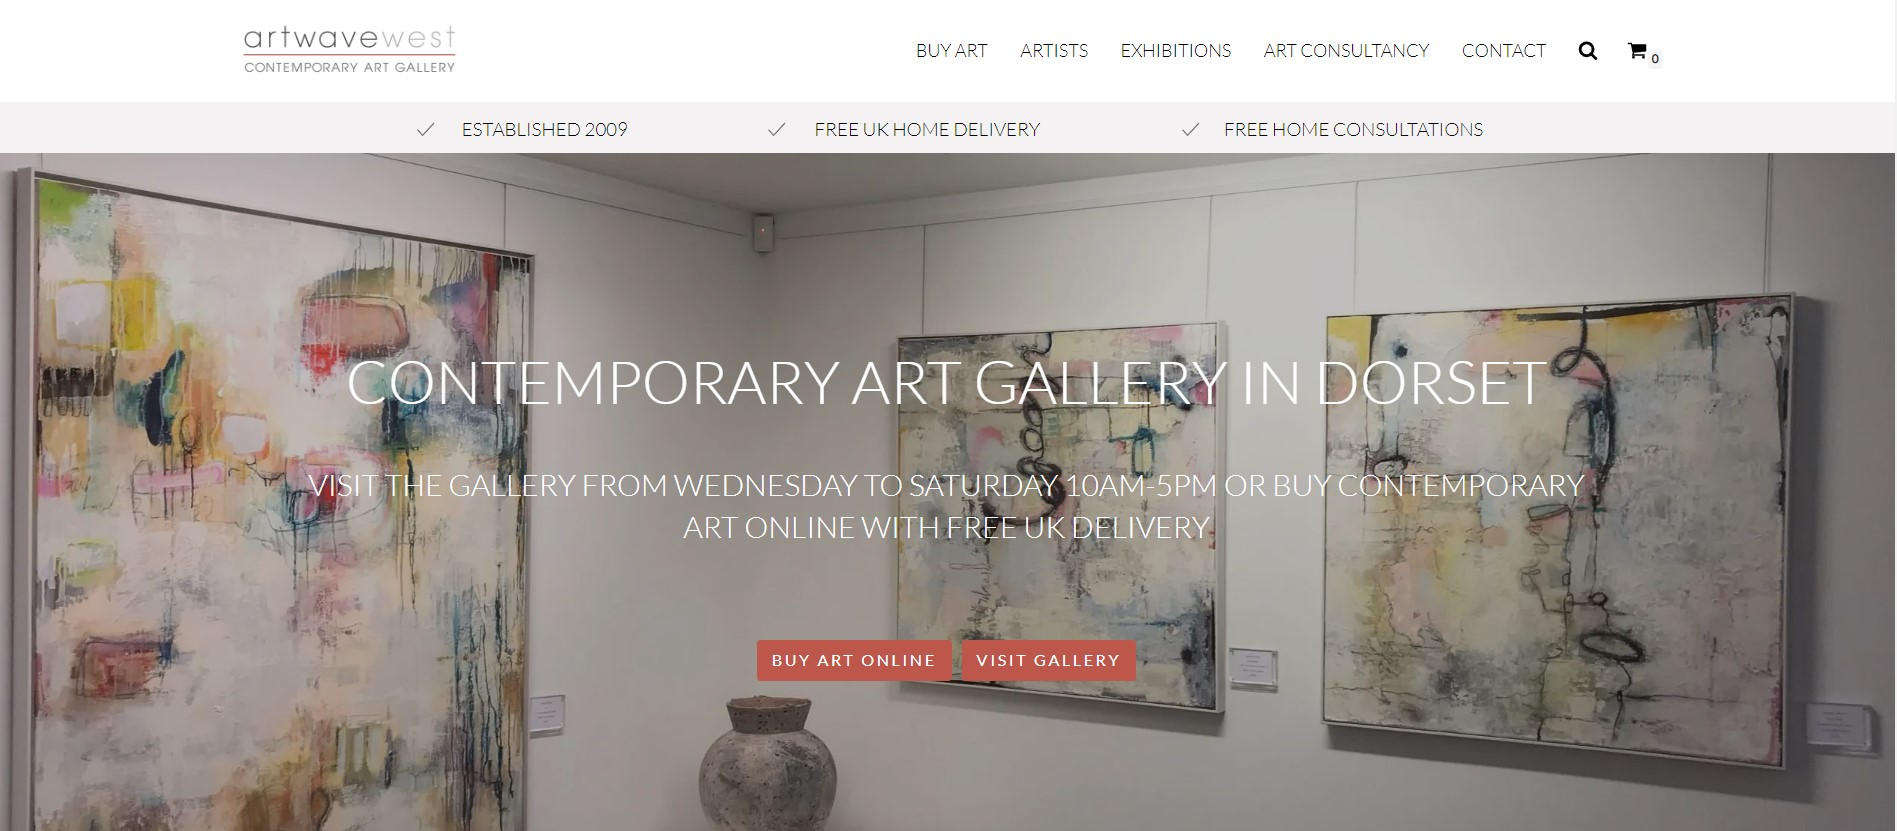
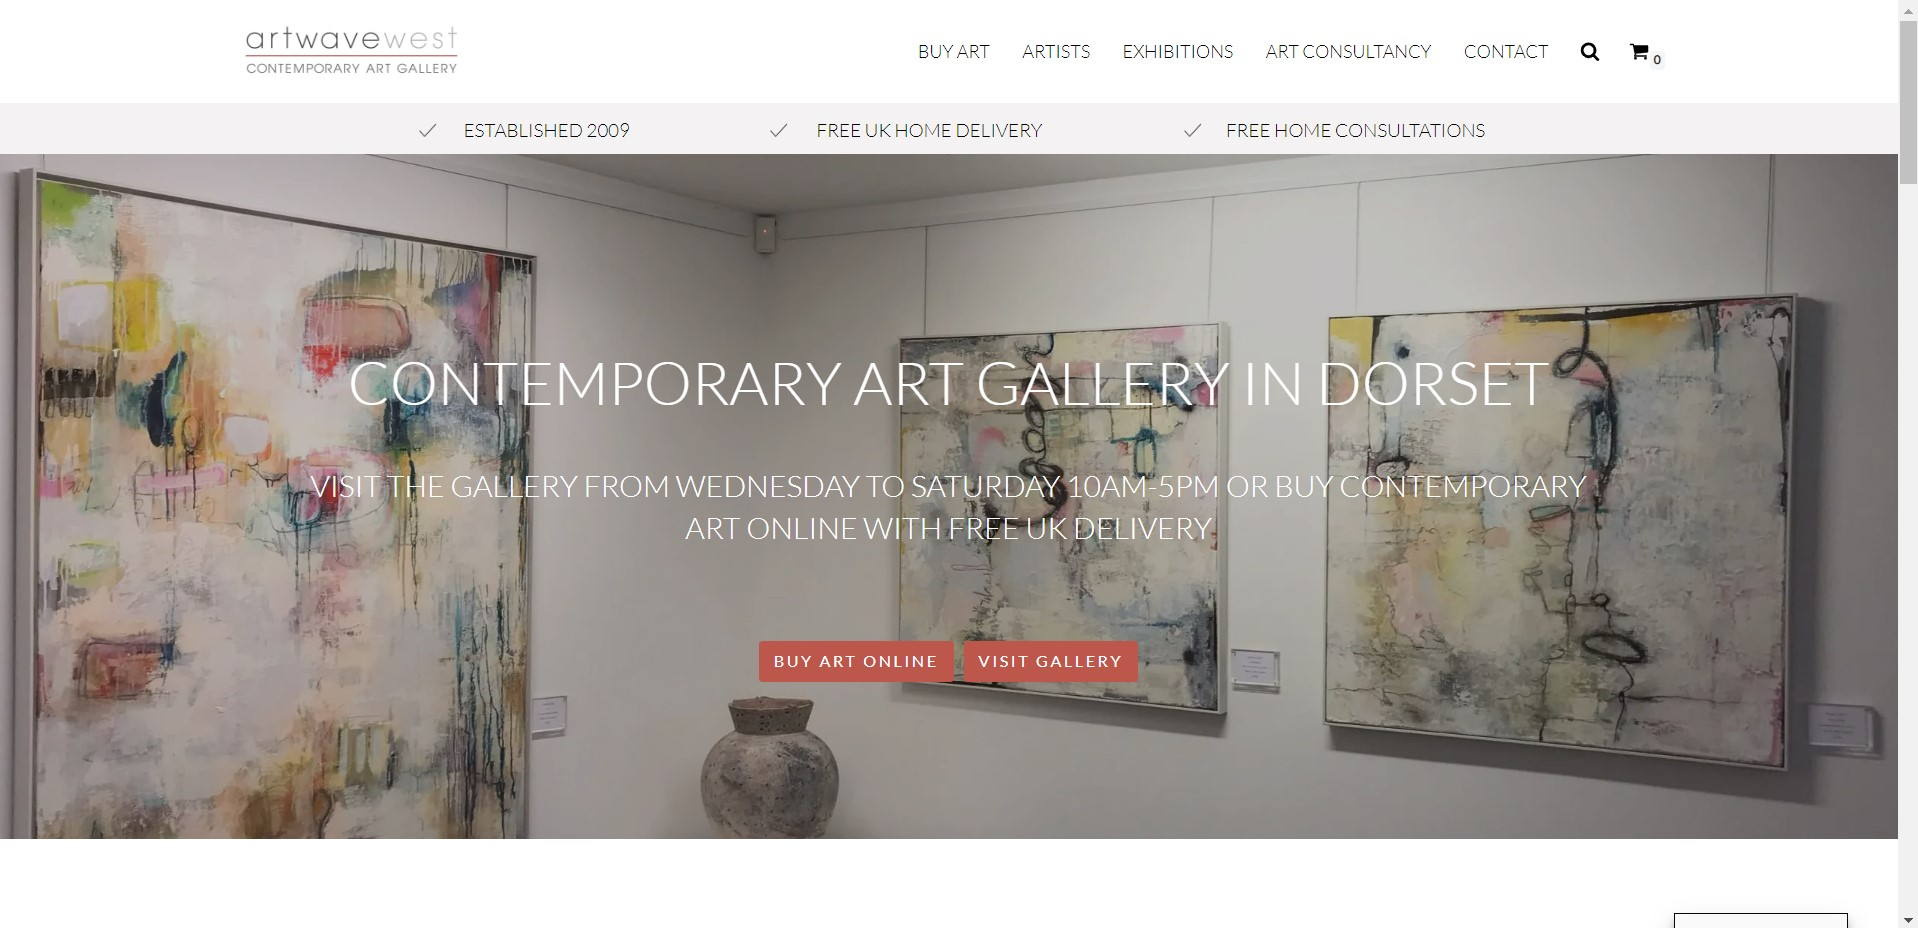
adds cards to portfolio and updates button colour

diff --git a/index.html b/index.html
@@ -57,18 +57,49 @@
           </section>
           <!-- PORTFOLIO -->
           <section class="container pt-5 pb-5">
+            <h3 class="d-flex justify-content-center d-flex align-items-center pb-2">My Work</h3>
             <section class="row">
-              <section class="col-lg-12 col-md-12 col-sm-12">
-                <h3 class="d-flex justify-content-center d-flex align-items-center pb-2">My Work</h3>
-                <img id="landing-page" class="landing-page pb-1" src="./assets/images/landing-page.jpg" alt="Screenshot of a basic landing page">
+              <section class="col-lg-6 col-md-6 col-sm-12">
+                <div class="card mt-2 mb-2">
+                  <img src="./assets/images/landing-page.jpg" class="card-img-top" alt="Screenshot of a basic landing page">
+                  <div class="card-body">
+                    <h5 class="card-title">Landing Page</h5>
+                    <p class="card-text">A very basic landing page as one of my first HTML and basic CSS projects during bootcamp.</p>
+                    <a href="https://zaitken1.github.io/landing-page/" target="_blank" class="btn btn-primary">View Project</a>
+                  </div>
+                </div>
+              </section>
+              <section class="col-lg-6 col-md-6 col-sm-12">
+                <div class="card mt-2 mb-2">
+                  <img src="./assets/images/passport-for-living.jpg" class="card-img-top" alt="Screenshot of Passport for Living Travel Blog website">
+                  <div class="card-body">
+                    <h5 class="card-title">Passport for Living</h5>
+                    <p class="card-text">My own travel blog which I built using WordPress and some basic bespoke CSS.</p>
+                    <a href="https://passport-for-living.com/" target="_blank" class="btn btn-primary">View Project</a>
+                  </div>
+                </div>
               </section>
             </section>
             <section class="row">
               <section class="col-lg-6 col-md-6 col-sm-12">
-                <img id="travel-blog" class="travel-blog pt-1" src="./assets/images/passport-for-living.jpg" alt="Screenshot of Passport for Living travel blog">
+                <div class="card mt-2 mb-2">
+                  <img src="./assets/images/artwave-west.jpg" target="_blank" class="card-img-top" alt="Screenshot of Artwave West art gallery website">
+                  <div class="card-body">
+                    <h5 class="card-title">Artwave West</h5>
+                    <p class="card-text">A freelance project for a local art gallery, built using WordPress and bespoke CSS.</p>
+                    <a href="https://www.artwavewest.com/" target="_blank" class="btn btn-primary">View Project</a>
+                  </div>
+                </div>
               </section>
               <section class="col-lg-6 col-md-6 col-sm-12">
-                <img id="artwave-west" class="artwave-west pt-1" src="./assets/images/artwave-west.jpg" alt="Screenshot of Artwave West gallery website">
+                <div class="card mt-2 mb-2">
+                  <img src="./assets/images/nick-matthews.jpg" class="card-img-top" alt="Screenshot of a basic landing page">
+                  <div class="card-body">
+                    <h5 class="card-title">Nick Matthews Photography</h5>
+                    <p class="card-text">A simple brochure website for a local photographer using the Squarespace platform.</p>
+                    <a href="https://www.nickmatthewsphotography.co.uk/" target="_blank" class="btn btn-primary">View Project</a>
+                  </div>
+                </div>
               </section>
             </section>
           </section>

diff --git a/assets/style.css b/assets/style.css
@@ -48,8 +48,10 @@ p {
     width: 500px;
 }
 
-.landing-page, .travel-blog, .artwave-west {
-    width: 100%;
+.btn, .btn-primary {
+    background-color: #A4C2A5;
+    border: none;
+    color: white;
 }
 
 
